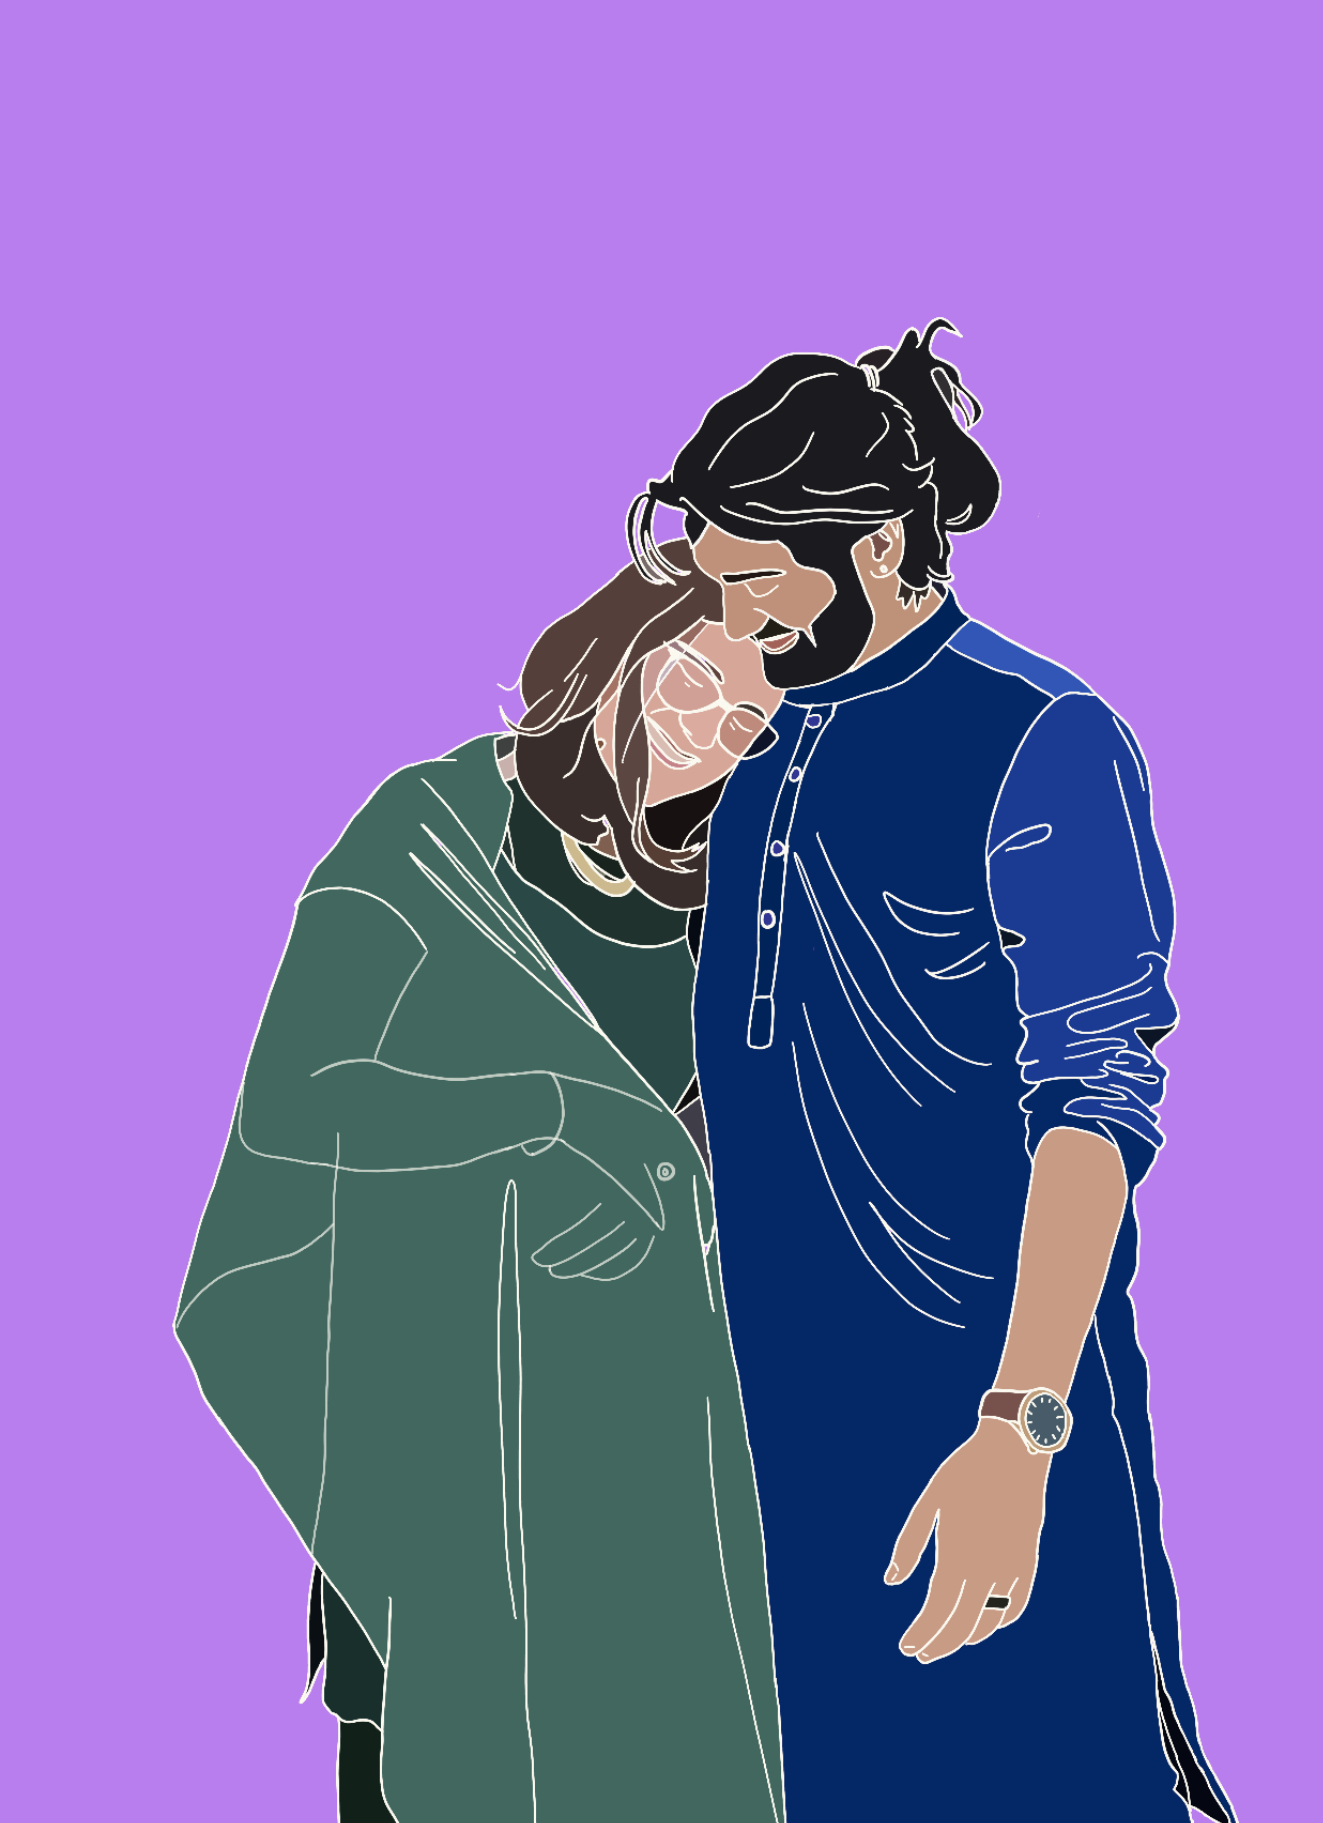
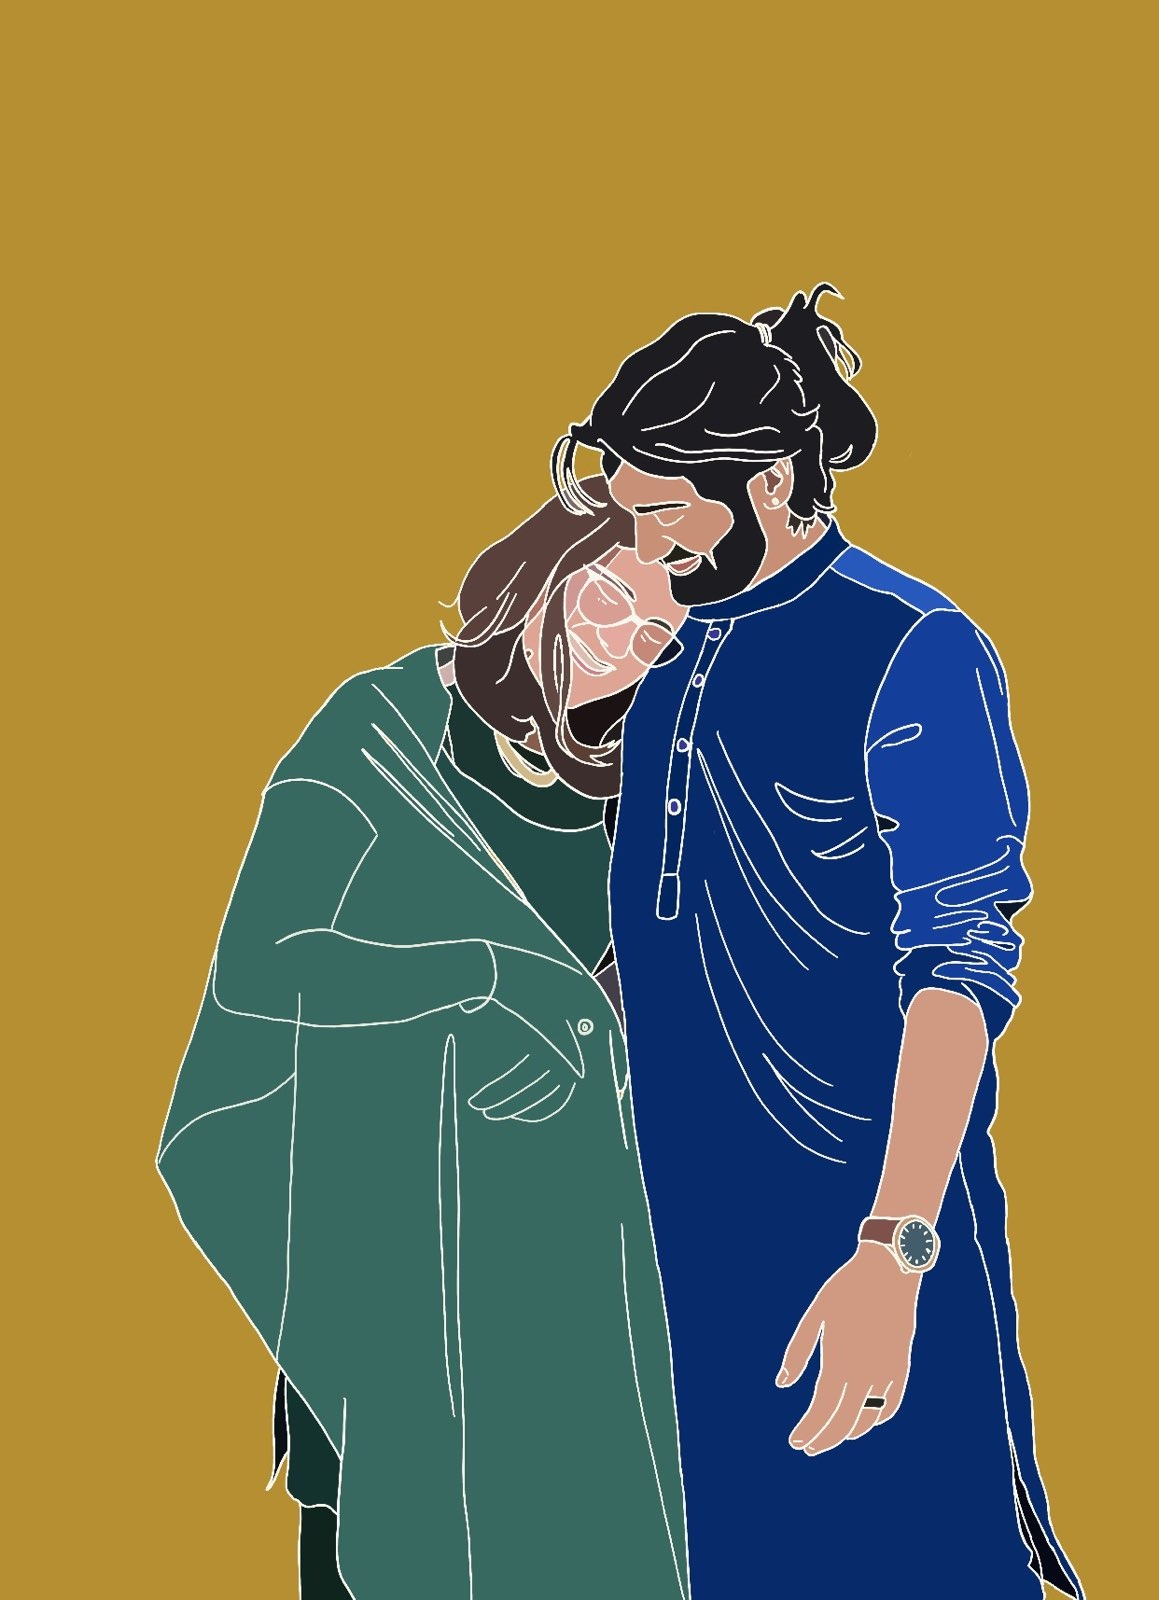
Colors
Colors

diff --git a/assets/css/main.css b/assets/css/main.css
@@ -5,20 +5,30 @@
 */
 
 :root {
-	--button-color-rgb: #c27bf5;
-	--button-color-active-rgb: #b573e5;
-	--button-color-rgba: rgba(194, 123, 245,0.2);
-	--button-color-rgba2: rgba(194, 123, 245,0.1);
+	/* --button-color-rgb: #c27bf5; */
+	/* --button-color-active-rgb: #b573e5; */
+	/* --button-color-rgba: rgba(194, 123, 245,0.2); */
+	/* --button-color-rgba2: rgba(194, 123, 245,0.1); */
 	
-	--menu-overlay-rgba: rgba(126, 80, 160, 0.5);
+	/* --menu-overlay-rgba: rgba(126, 80, 160, 0.5); */
 	--menu-blur-amount: 3px;
 	--menu-background-color-rgb: #000000;
 	--menu-links-color-rgb: #ffffff;
-	--menu-button-rgba: rgba(194, 123, 245, 0.5);
-
-	--spotlight-overlay-rgba: rgba(126, 80, 160, 0.5);
-
+	/* --menu-button-rgba: rgba(194, 123, 245, 0.5); */
+	
+	/* --spotlight-overlay-rgba: rgba(126, 80, 160, 0.5); */
+	
 	--header-background-color-rgba: rgba(0, 0, 0, 0.95);
+	
+	--button-color-rgb: rgb(182, 143, 49);
+	--button-color-active-rgb: rgb(169, 135, 33);
+	--button-color-rgba: rgb(182, 143, 49, 0.2);
+	--button-color-rgba: rgb(182, 143, 49, 0.1);
+	
+	--menu-overlay-rgba: rgba(114, 100, 0, 0.5);
+	--menu-button-rgba: rgb(182, 143, 49, 0.5);
+
+	--spotlight-overlay-rgba: rgba(114, 100, 0, 0.5);
 }
 
 html, body, div, span, applet, object,
